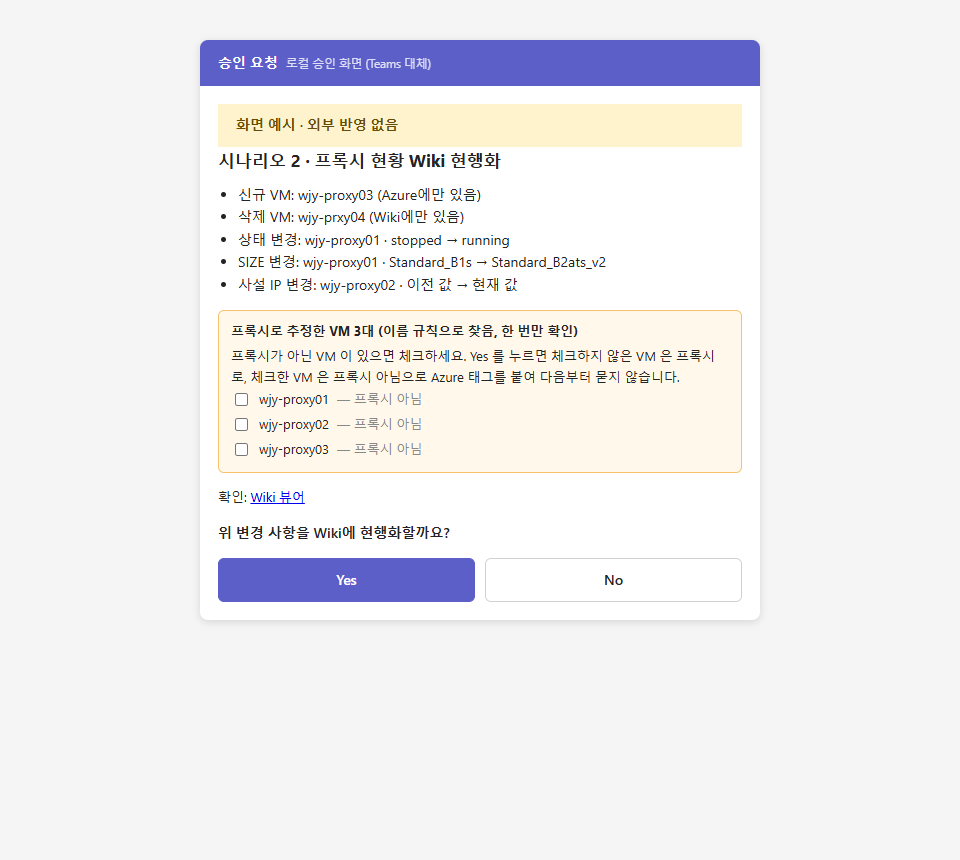
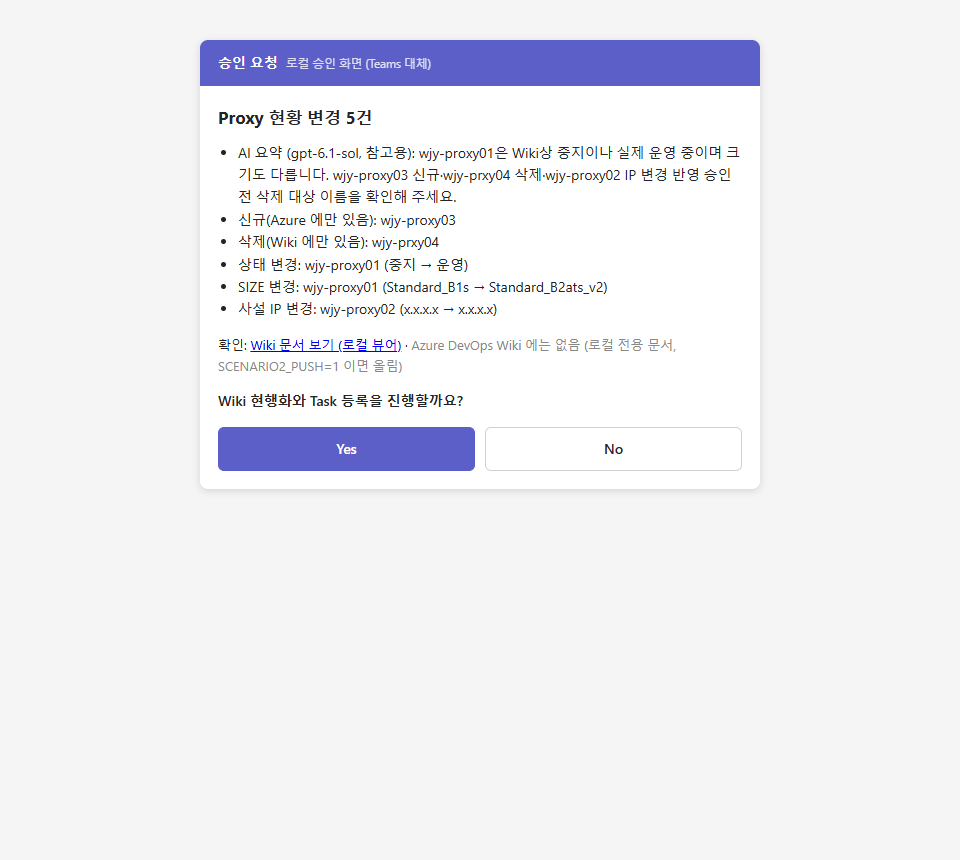
README 시나리오 2: 승인·처리 결과 화면을 실제 실행 기록으로 재촬영(예시 데이터 대체), Teams 카드 갱신

Changed region(s): [[0.2188, 0.1209, 0.7812, 0.7256], [0.625, 0.6651, 0.6562, 0.6953]]

diff --git a/README.md b/README.md
@@ -183,15 +183,15 @@ flowchart TD
 
 ![시나리오 2 - Teams 승인 요청 카드](docs/images/teams-scenario2-approval.png)
 
-Yes를 누르면 Task 생성 → Wiki 표·변경 이력 갱신 → Task 완료 처리 후 결과 카드가 옵니다(Task #2530 Done, Wiki 커밋 링크):
+Yes를 누르면 Task 생성 → Wiki 표·변경 이력 갱신 → Task 완료 처리 후 결과 카드가 옵니다(Task #2531 Done, Wiki 커밋 링크):
 
 ![시나리오 2 - Teams 현행화 완료 카드](docs/images/teams-scenario2-result.png)
 
-아래 두 장은 실제 승인 화면 렌더러에 **예시 데이터**를 넣어 촬영한 것으로, 외부 시스템에는 반영하지 않았습니다. Teams 카드의 "자세히 보기"가 이 로컬 승인 화면을 엽니다. Teams 카드에서 바로 Yes/No를 누르면 "받았습니다" 확인만 뜨고 처리 결과는 Teams 결과 카드로 옵니다:
+아래 두 장은 같은 실행(2026-10-30 17:41)의 **로컬 승인 화면**과 승인 후 **처리 결과 화면**입니다. 화면 내용과 최종 진행 상태를 `data/approvals/`에 남겨 두었다가 같은 화면 코드로 다시 그렸습니다. Teams 카드의 "자세히 보기"가 이 로컬 승인 화면을 엽니다. Teams 카드에서 바로 Yes/No를 누르면 "받았습니다" 확인만 뜨고 처리 결과는 Teams 결과 카드로 옵니다:
 
-![시나리오 2 - 로컬 승인 화면 예시](docs/images/approval.png)
+![시나리오 2 - 로컬 승인 화면](docs/images/approval.png)
 
-![시나리오 2 - 승인 후 완료 화면 예시](docs/images/approval-progress.png)
+![시나리오 2 - 승인 후 처리 결과 화면](docs/images/approval-progress.png)
 
 ### 1.3 시나리오 3 · 장애 감지 및 자동 조치
 
